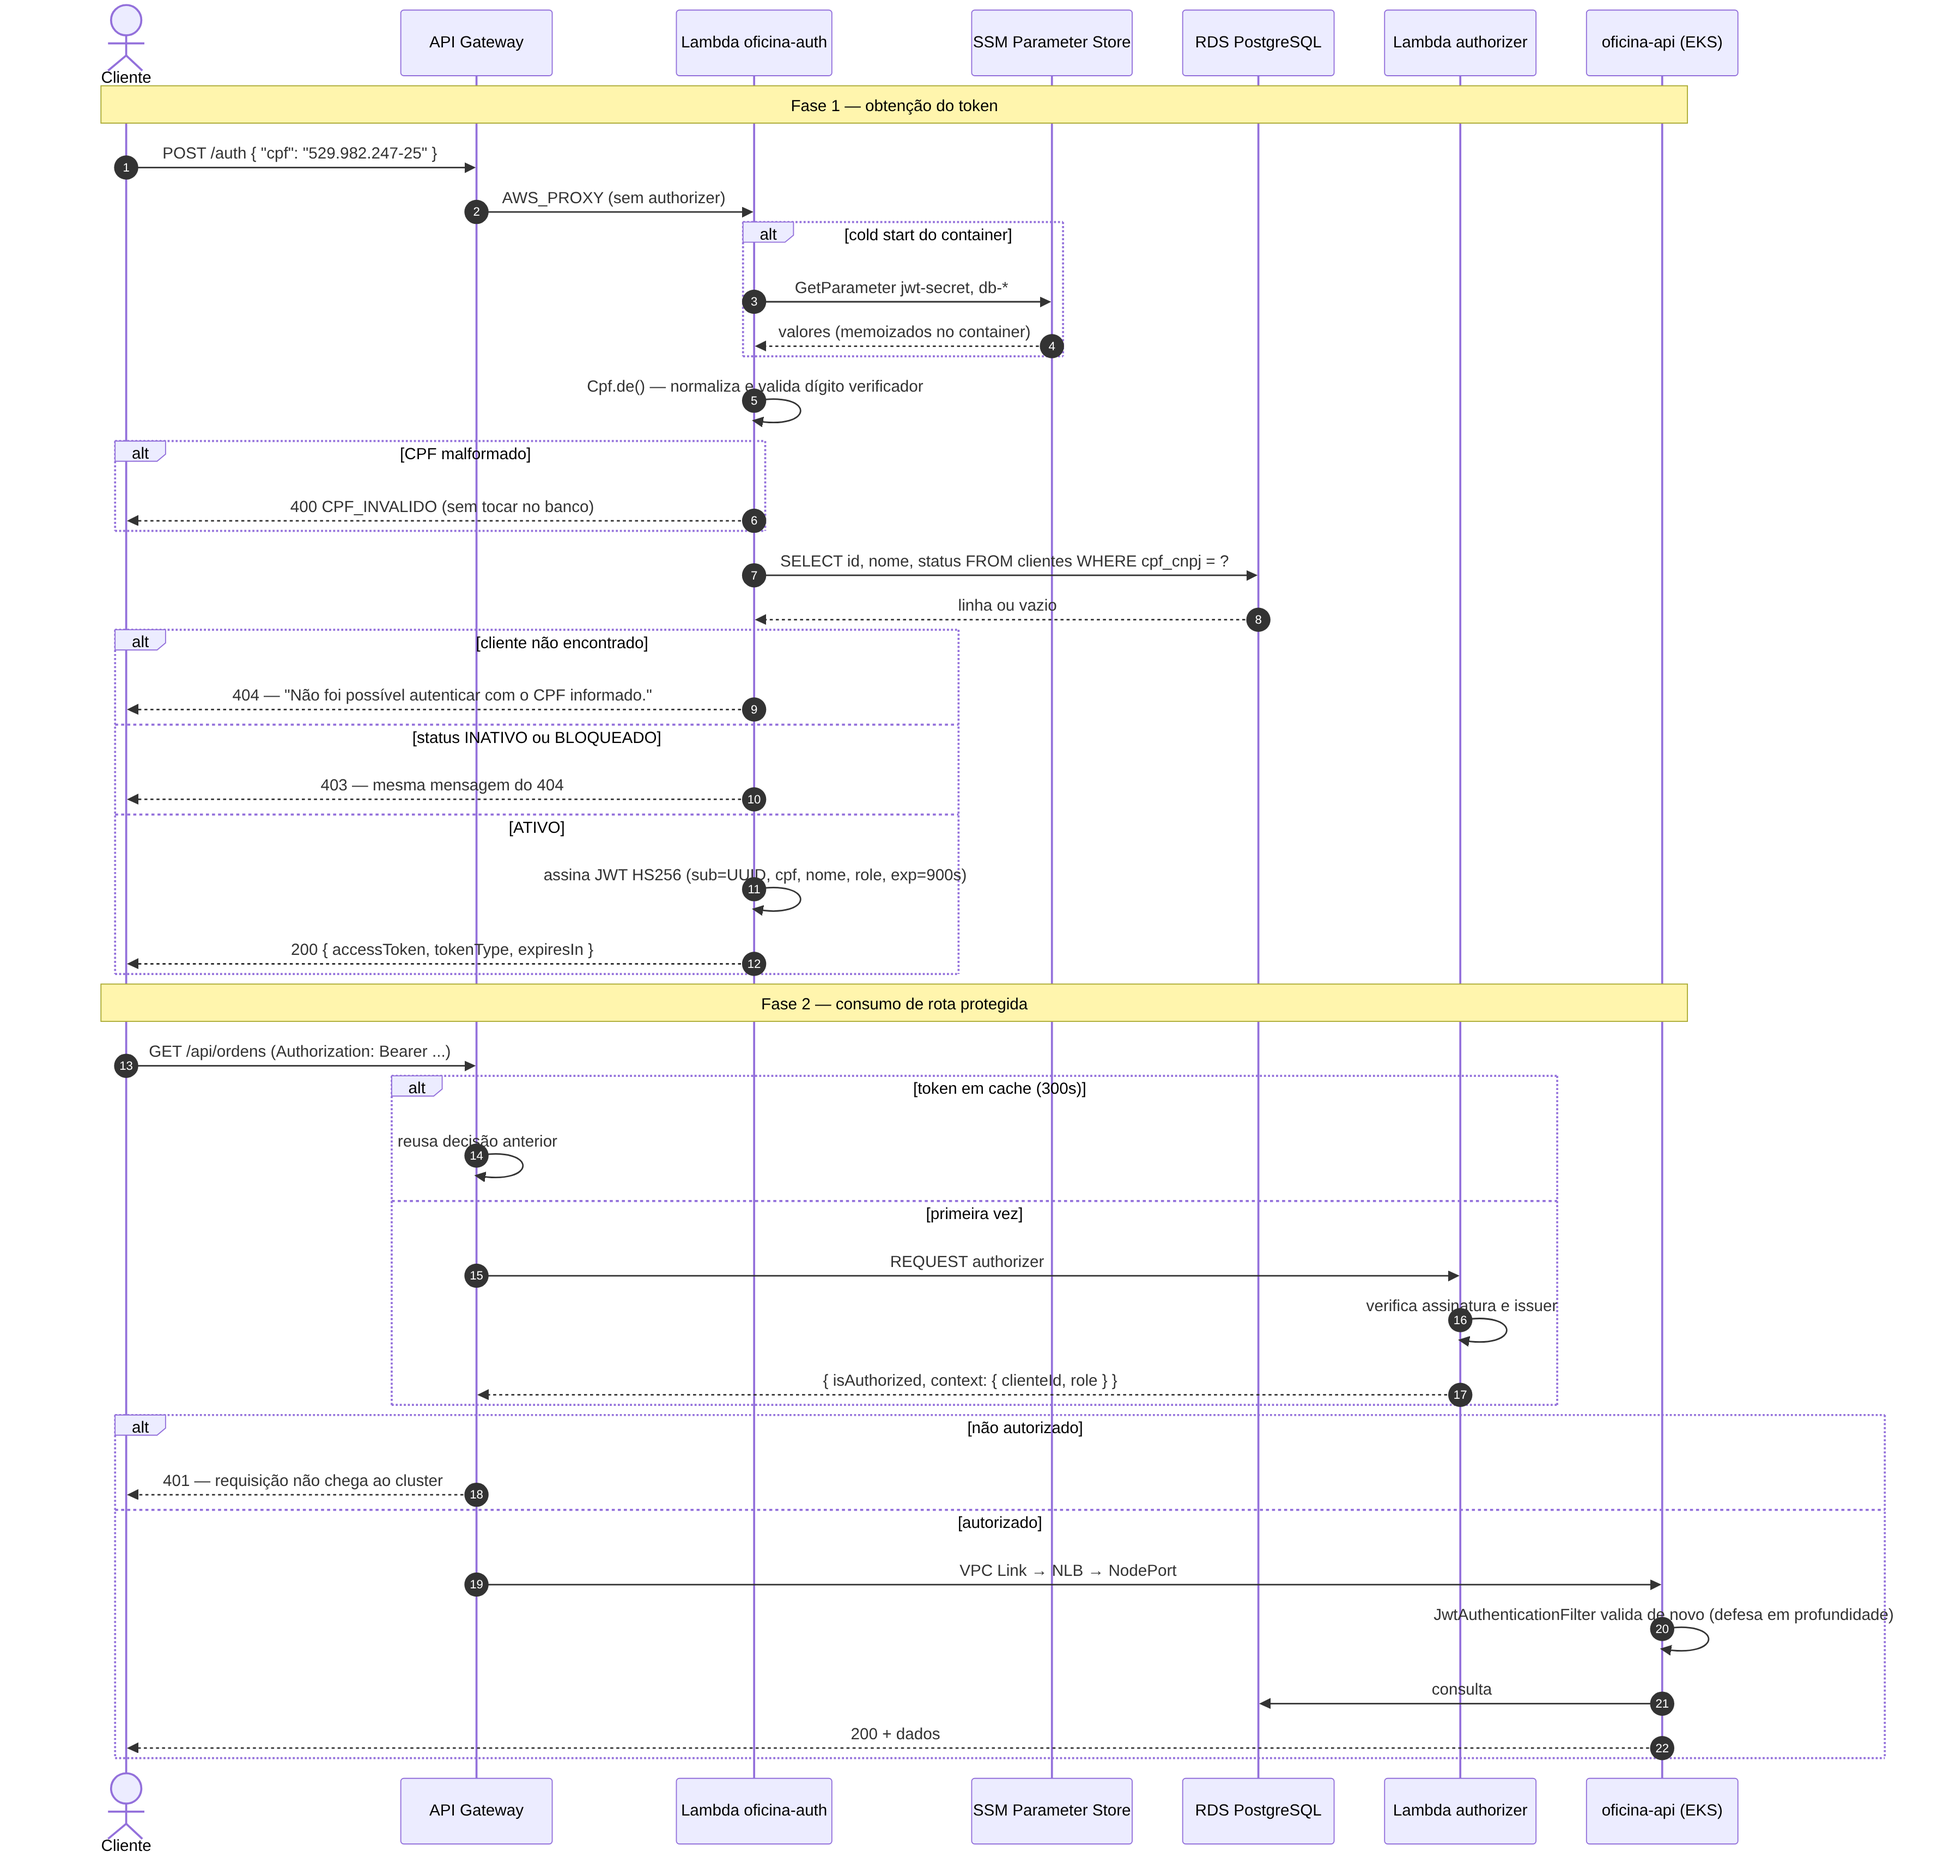
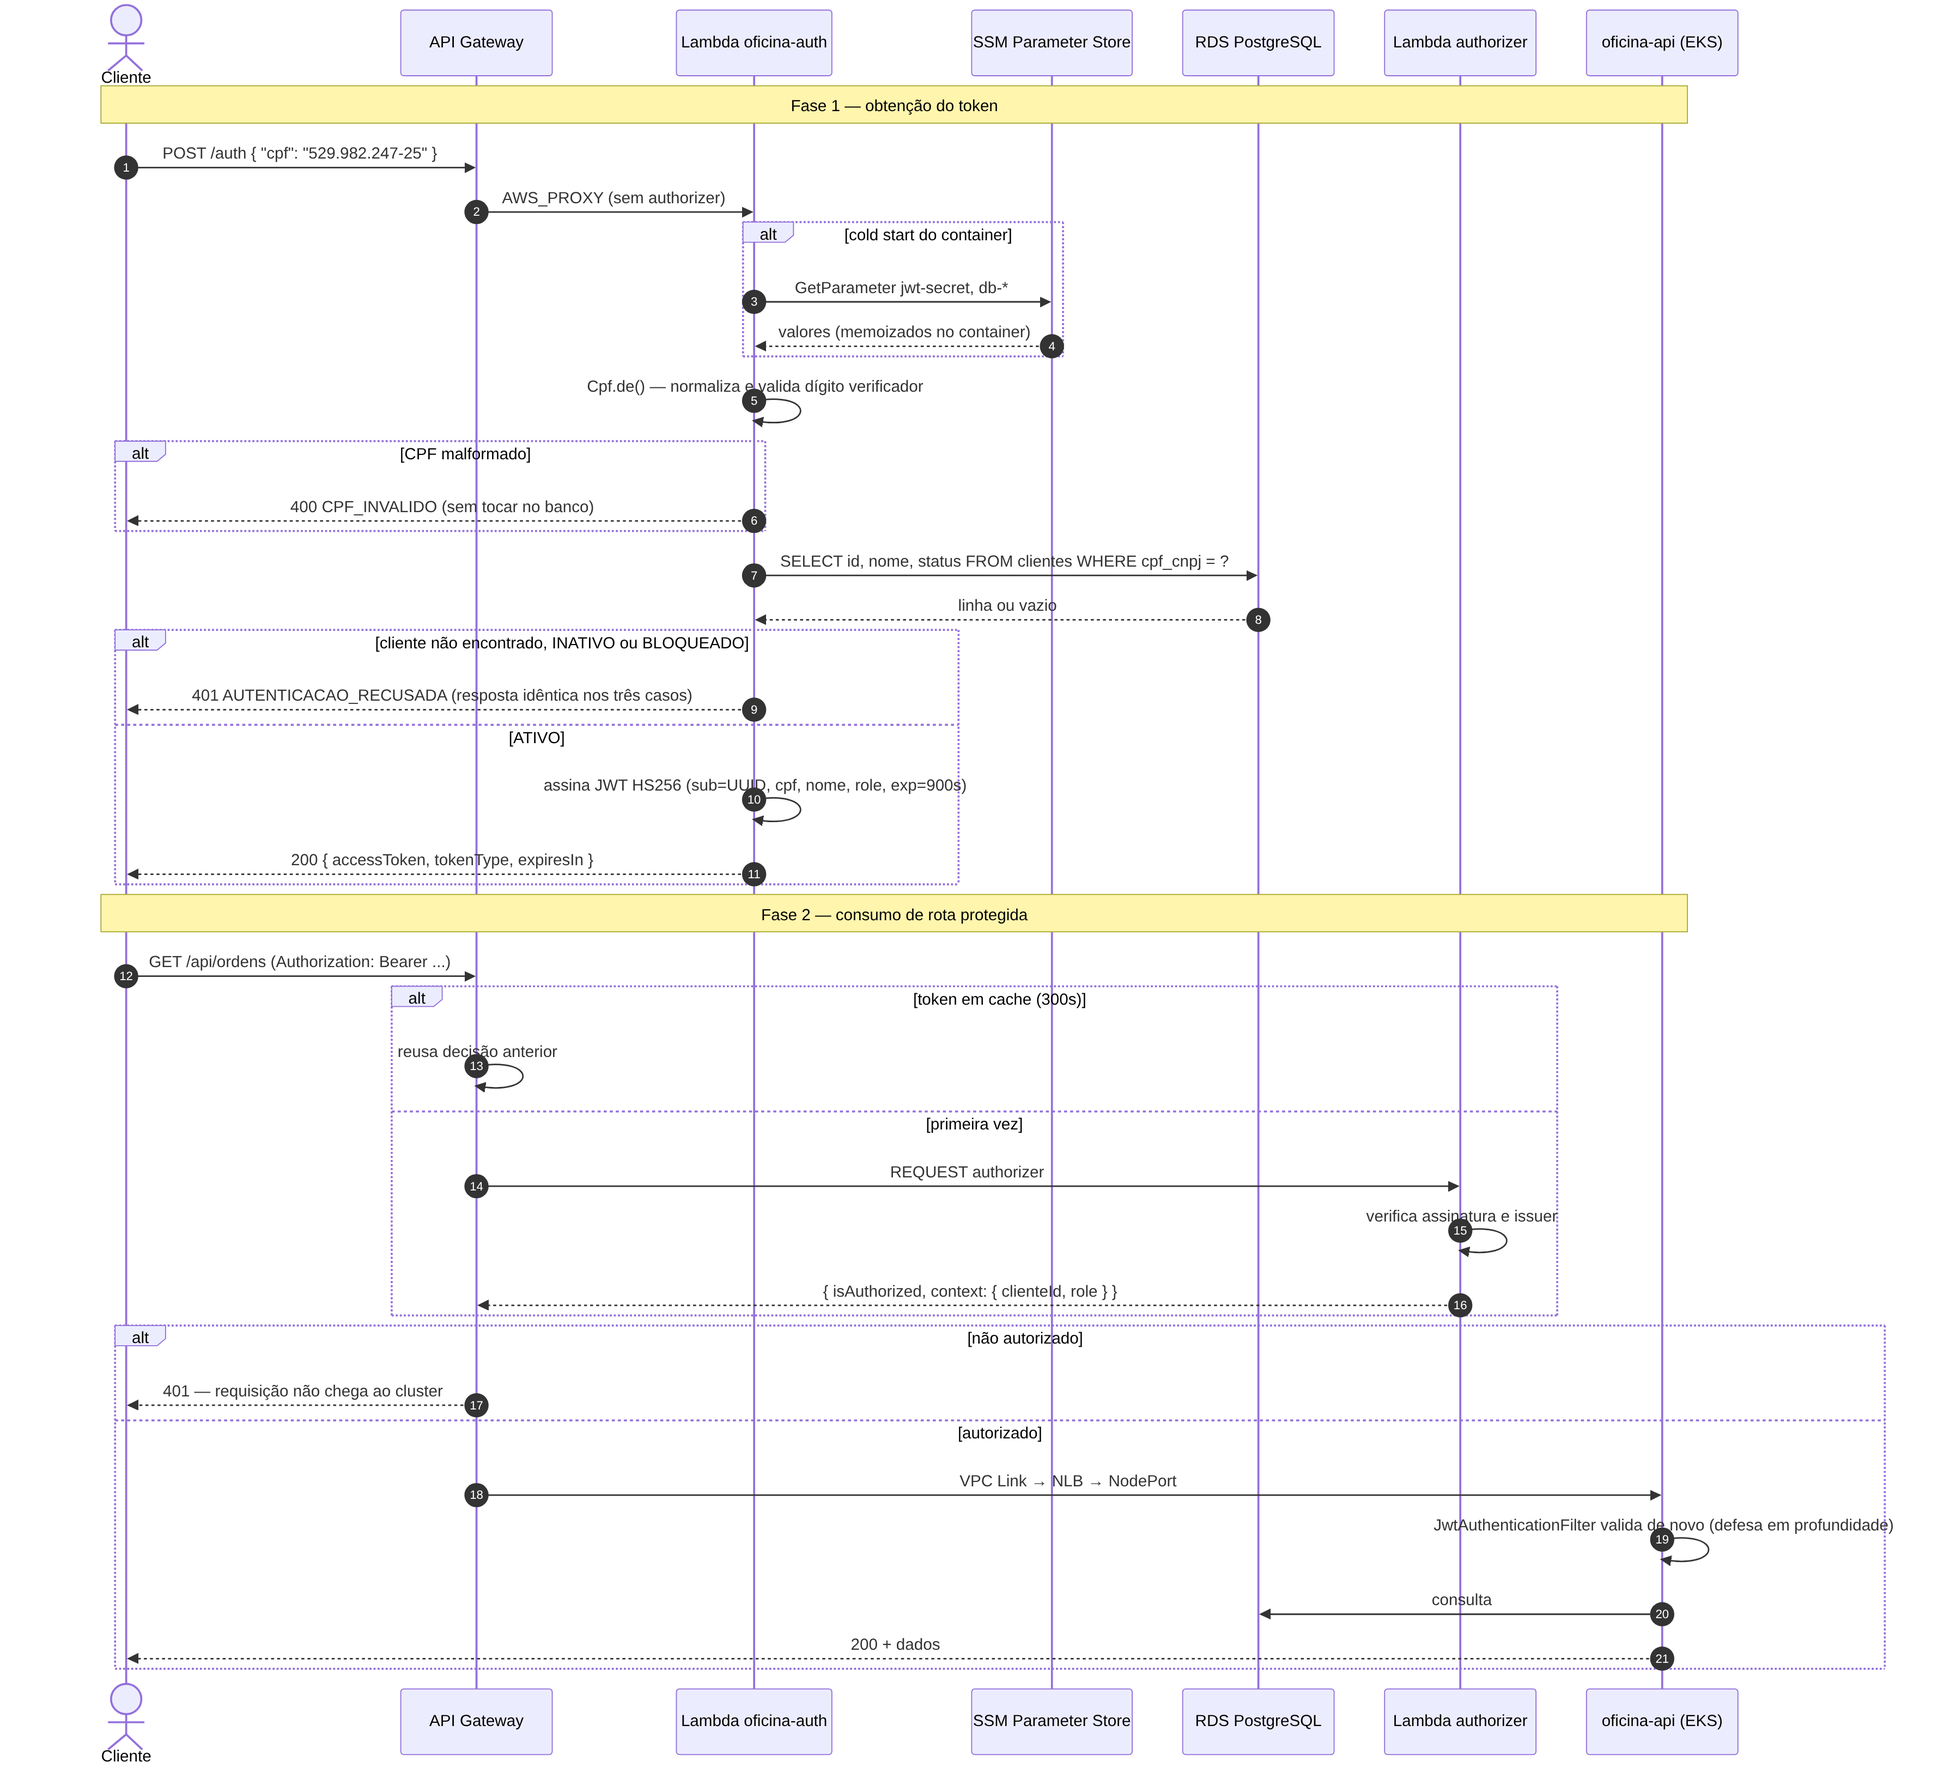
docs: describe single 401 authentication failure

diff --git a/docs/tech-challenge-3/diagramas/sequencia-autenticacao.md b/docs/tech-challenge-3/diagramas/sequencia-autenticacao.md
@@ -32,10 +32,8 @@ sequenceDiagram
     AF->>DB: SELECT id, nome, status FROM clientes WHERE cpf_cnpj = ?
     DB-->>AF: linha ou vazio
 
-    alt cliente não encontrado
-        AF-->>C: 404 — "Não foi possível autenticar com o CPF informado."
-    else status INATIVO ou BLOQUEADO
-        AF-->>C: 403 — mesma mensagem do 404
+    alt cliente não encontrado, INATIVO ou BLOQUEADO
+        AF-->>C: 401 AUTENTICACAO_RECUSADA (resposta idêntica nos três casos)
     else ATIVO
         AF->>AF: assina JWT HS256 (sub=UUID, cpf, nome, role, exp=900s)
         AF-->>C: 200 { accessToken, tokenType, expiresIn }
@@ -65,8 +63,8 @@ sequenceDiagram
 
 ## Três detalhes que o diagrama torna explícitos
 
-**404 e 403 devolvem a mesma mensagem.** O código específico existe para o log; o corpo é genérico de propósito, para que ninguém use o endpoint para descobrir quais CPFs existem na base.
+**CPF sem cadastro e cadastro sem permissão recebem a mesma resposta.** O status, os cabeçalhos e o corpo são idênticos, e o motivo fica apenas no log. Assim, o endpoint não permite descobrir quais CPFs estão cadastrados.
 
-**O `sub` é o UUID, não o CPF.** Assim o identificador não se espalha pelos logs de todo request downstream.
+**O `sub` é o UUID do cliente.** O CPF não é usado como identificador, para não ser registrado nos logs das requisições seguintes.
 
-**A validação acontece duas vezes.** No gateway, pelo authorizer, que é o ponto de aplicação; e na aplicação, pelo filtro, que é a rede de segurança. O gateway autentica; quem decide se *este* cliente pode ver *esta* OS continua sendo a aplicação.
+**A validação acontece duas vezes.** O authorizer valida o token no gateway, e o filtro da aplicação valida novamente. A autorização sobre cada recurso, como verificar se a OS pertence ao cliente, é feita pela aplicação.

diff --git a/docs/testes.md b/docs/testes.md
@@ -99,5 +99,5 @@ O job é status check obrigatório nas regras de proteção de `develop` e `main
 |---|---|
 | Teste de carga | script k6 (`oficina-infra-k8s/cluster/k8s/loadtest/k6-script.js`) executado manualmente em homologação, para observar o HPA |
 | Teste ponta a ponta no ambiente implantado | roteiro manual com `docs/demo.http`, executado na demonstração |
-| Função de autenticação por CPF | testada no repositório `oficina-auth-lambda` (45 casos, incluindo PostgreSQL via Testcontainers) |
+| Função de autenticação por CPF | testada no repositório `oficina-auth-lambda` (44 casos, incluindo PostgreSQL via Testcontainers) |
 | Infraestrutura | validada nos repositórios de Terraform com `terraform fmt`, `terraform validate`, tflint e checkov |

diff --git a/docs/tech-challenge-3/debitos-tecnicos.md b/docs/tech-challenge-3/debitos-tecnicos.md
@@ -178,7 +178,7 @@ Alterar o fator de autenticação contrariaria o requisito explícito da entrega
 ### Impacto do débito
 
 **CPF é identificador público, não segredo.** Quem souber o CPF de um cliente acessa os
-dados dele. Mitigações dentro do escopo: respostas de 404 e 403 indistinguíveis, para
+dados dele. Mitigações dentro do escopo: resposta 401 idêntica para CPF sem cadastro e cadastro inativo, para
 impedir enumeração de CPFs; throttling de 10 req/s na rota `/auth`; token de 15 minutos
 sem refresh; e CPF nunca gravado em log — apenas os 3 últimos dígitos. No caso do
 funcionário, o impacto é maior, pois o token dá acesso às rotas de gestão; em homologação,

diff --git a/README.md b/README.md
@@ -147,7 +147,7 @@ A aplicação não emite tokens. A autenticação é feita pelo CPF nas rotas do
 ```bash
 curl -X POST "$API_URL/auth/funcionarios" -H "Content-Type: application/json" -d '{"cpf":"<cpf-do-funcionario>"}'
 # 200 {"accessToken":"eyJ...","tokenType":"Bearer","expiresIn":900}
-# 400 CPF inválido; 404 não cadastrado e 403 inativo, com a mesma mensagem
+# 400 CPF inválido; 401 com resposta idêntica para CPF não cadastrado ou inativo
 
 curl "$API_URL/api/ordens" -H "Authorization: Bearer eyJ..."
 ```
